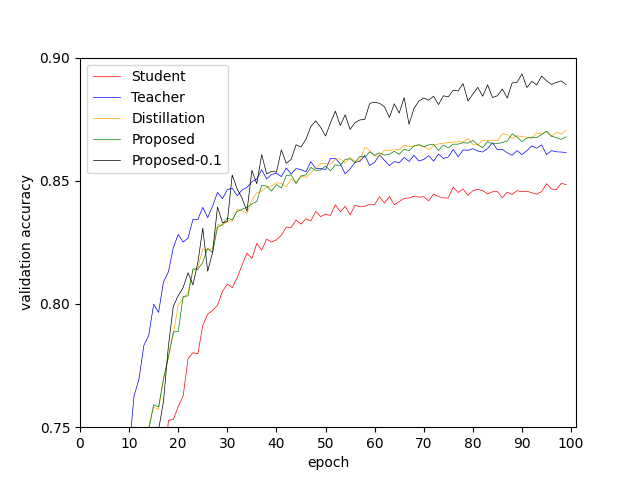
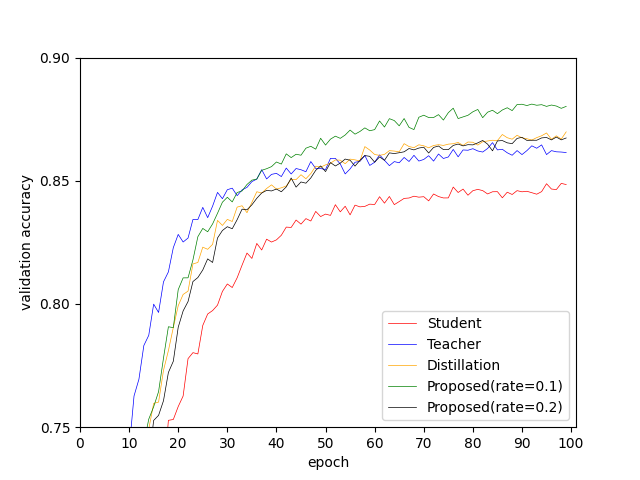
cam-distillation

diff --git a/resnet_test.py b/resnet_test.py
@@ -17,12 +17,11 @@ from src.kd_loss.cam_loss import CAMLoss
 def main():
     
     teacher_student_loss = 0
-    teacher_testmodel_loss = 0
     teacher_st_loss = 0
-    teacher_sample_loss = 0
-    teacher_proposed_loss = 0
+    teacher_cam01_loss = 0
+    teacher_cam02_loss = 0
     
-    iteration = 1
+    iteration = 5
     
     for i in range(iteration):
         print(i)
@@ -38,77 +37,67 @@ def main():
         
         teacher = resnet_teacher().to(device)
         student = resnet_student().to(device)
-        test_model = resnet_student().to(device)
         st = resnet_student().to(device)
-        # sample = resnet_student().to(device)
-        proposed = resnet_student().to(device)
+        cam01 = resnet_student().to(device)
+        cam02 = resnet_student().to(device)
         
         teacher.load_state_dict(torch.load('./logs/resnet/teacher/' + str(i) + '.pth'))
         student.load_state_dict(torch.load('./logs/resnet/student/' + str(i) + '.pth'))
-        test_model.load_state_dict(torch.load('./logs/resnet/cam/' + str(i) + '.pth'))
         st.load_state_dict(torch.load('./logs/resnet/st/' + str(i) + '.pth'))
-        # sample.load_state_dict(torch.load('./logs/resnet/sample/' + str(i) + '.pth'))
-        proposed.load_state_dict(torch.load('./logs/resnet/cam/10.pth'))
+        cam01.load_state_dict(torch.load('./logs/resnet/cam/01_' + str(i) + '.pth'))
+        cam02.load_state_dict(torch.load('./logs/resnet/cam/02_' + str(i) + '.pth'))
         
         loss_fn = nn.CrossEntropyLoss()
         cam_loss = nn.MSELoss()
         
         teacher.eval()
         student.eval()
-        test_model.eval()
         st.eval()
-        # sample.eval()
-        proposed.eval()
-        
+        cam01.eval()
+        cam02.eval()
+       
         with torch.no_grad():           
             for images, labels in tqdm(dataloader, leave=False):
                 images, labels = images.to(device), labels.to(device)
                 _, teacher_cams = teacher(images)
                 _, student_cams = student(images)
-                _, testmodel_cams = test_model(images)
                 _, st_cams = st(images)
-                # _, sample_cams = sample(images)
-                _, proposed_cams = proposed(images)
+                _, cam01_cams = cam01(images)
+                _, cam02_cams = cam02(images)
                 
                 for j in range(batch_size):
                     image = images[j]
                     label = int(labels[j])
                     teacher_feature = teacher_cams[i].to(device)
                     student_feature = student_cams[i].to(device)
-                    testmodel_feature = testmodel_cams[i].to(device)
                     st_feature = st_cams[i].to(device)
-                    # sample_feature = sample_cams[i].to(device)
-                    proposed_feature = proposed_cams[i].to(device)
+                    cam01_feature = cam01_cams[i].to(device)
+                    cam02_feature = cam02_cams[i].to(device)
                     
                     teacher_cam = create_teacher_cam(image, label, teacher_feature, teacher)
                     student_cam = create_student_cam(image, label, student_feature, student)
-                    testmodel_cam = create_student_cam(image, label, testmodel_feature, test_model)
                     st_cam = create_student_cam(image, label, st_feature, st)
-                    # sample_cam = create_student_cam(image, label, st_feature, sample)
-                    proposed_cam = create_student_cam(image, label, proposed_feature, proposed)
+                    cam01_cam = create_student_cam(image, label, cam01_feature, cam01)
+                    cam02_cam = create_student_cam(image, label, cam02_feature, cam02)
                     
                     # 1. 教師と生徒のLoss
                     teacher_student_loss += cam_loss(teacher_cam, student_cam)
-                    # 2. 教師とテストモデルのLoss
-                    teacher_testmodel_loss += cam_loss(teacher_cam, testmodel_cam)
-                    # 3. 教師と従来法のLoss
-                    teacher_st_loss += cam_loss(teacher_cam, st_cam)
-                    # 4. 教師とサンプルモデルのLoss
-                    # teacher_sample_loss += cam_loss(teacher_cam, sample_cam)
-                    # 5. 教師と提案法0.1のLoss
-                    teacher_proposed_loss += cam_loss(teacher_cam, proposed_cam)
+                    # 2. 教師と従来法のLoss
+                    teacher_st_loss      += cam_loss(teacher_cam, st_cam)
+                    # 3. 教師と提案法(cam_rate=0.1)のLoss
+                    teacher_cam01_loss   += cam_loss(teacher_cam, cam01_cam)
+                    # 4. 教師と提案法(cam_rate=0.2)のLoss
+                    teacher_cam02_loss   += cam_loss(teacher_cam, cam02_cam)
             
     teacher_student_loss /= iteration
     teacher_st_loss /= iteration
-    teacher_testmodel_loss /= iteration
-    # teacher_sample_loss /= iteration
-    teacher_proposed_loss /= iteration
+    teacher_cam01_loss /= iteration
+    teacher_cam02_loss /= iteration
     
-    print('Teacher & Student: '         + str(teacher_student_loss.numpy()))
-    print('Teacher & Distillation '     + str(teacher_st_loss.numpy()))
-    print('Teacher & Proposed: '        + str(teacher_testmodel_loss.numpy()))
-    # print('Teacher & only CAMLoss: '    + str(teacher_sample_loss.numpy()))
-    print('Teacher & Proposed-0.1: '    + str(teacher_proposed_loss.numpy()))
+    print('Teacher & Student: '          + str(teacher_student_loss.numpy()))
+    print('Teacher & Distillation '      + str(teacher_st_loss.numpy()))
+    print('Teacher & Proposed(rate=0.1)' + str(teacher_cam01_loss.numpy()))
+    print('Teacher & Proposed(rate=0.2)' + str(teacher_cam02_loss.numpy()))
 
 def create_teacher_cam(image, label, feature, model):
     weight = model.fc.weight[label]
@@ -116,8 +105,8 @@ def create_teacher_cam(image, label, feature, model):
     cam = feature * weight  
     cam = cam.detach().cpu().numpy()
     cam = np.sum(cam, axis=0)
-    # cam = cv2.resize(cam, (32, 32))
-    # cam = (cam - np.min(cam)) / (np.max(cam) - np.min(cam))
+    cam = cv2.resize(cam, (32, 32))
+    cam = (cam - np.min(cam)) / (np.max(cam) - np.min(cam))
     cam = torch.tensor(cam)
     return cam
 
@@ -127,8 +116,8 @@ def create_student_cam(image, label, feature, model):
     cam = feature * weight  
     cam = cam.detach().cpu().numpy()
     cam = np.sum(cam, axis=0)
-    # cam = cv2.resize(cam, (32, 32))
-    # cam = (cam - np.min(cam)) / (np.max(cam) - np.min(cam))
+    cam = cv2.resize(cam, (32, 32))
+    cam = (cam - np.min(cam)) / (np.max(cam) - np.min(cam))
     cam = torch.tensor(cam)
     return cam
 

diff --git a/resnet_result.py b/resnet_result.py
@@ -7,51 +7,33 @@ def main():
     student_path = './history/resnet/student/'
     teacher_path = './history/resnet/teacher/'
     st_path = './history/resnet/st/'
-    cam_path = './history/resnet/cam/'
-    sample_path = './history/resnet/sample/'
-    cnn_path = './history/resnet/cnn/'
-    dis_path = './history/resnet/distillation/'
+    cam01_path = './history/resnet/cam/01_'
+    cam02_path = './history/resnet/cam/02_'
     
     # loading history
     student_acc = load_hist(student_path, 5)
     teacher_acc = load_hist(teacher_path, 5)
     st_acc = load_hist(st_path, 5)
-    cam_acc = load_hist(cam_path, 5)
-    sample_acc = load_hist(sample_path, 5)
-    cnn_acc = load_hist(cnn_path, 5)
-    dis_acc = load_hist(dis_path, 5)
-    
-    cam1_acc = load_history('./history/resnet/cam/10.pickle')
+    cam01_acc = load_hist(cam01_path, 5)
+    cam02_acc = load_hist(cam02_path, 5)
     
     # print test accuracy
     student_avg = load_avg_test(student_path, 5)
-    student_best = load_best_test(student_path, 5)
-    
+    student_best = load_best_test(student_path, 5)   
     teacher_avg = load_avg_test(teacher_path, 5)
-    teacher_best = load_best_test(teacher_path, 5)
-    
+    teacher_best = load_best_test(teacher_path, 5)    
     st_avg = load_avg_test(st_path, 5)
-    st_best = load_best_test(st_path, 5)
-    
-    cam_avg = load_avg_test(cam_path, 5)
-    cam_best = load_best_test(cam_path, 5)
-    
-    sample_avg = load_avg_test(sample_path, 5)
-    sample_best = load_best_test(sample_path, 5)
-    
-    cnn_avg = load_avg_test(cnn_path, 5)
-    cnn_best = load_best_test(cnn_path, 5)
-    
-    dis_avg = load_avg_test(dis_path, 5)
-    dis_best = load_best_test(dis_path, 5)
-    
-    print('Student          | avg: ' + str(student_avg) + ' best: ' + str(student_best))
-    print('Teacher          | avg: ' + str(teacher_avg) + ' best: ' + str(teacher_best))
-    print('Distillation     | avg: ' + str(st_avg)      + ' best: ' + str(st_best))
-    print('CAM-Distillation | avg: ' + str(cam_avg)     + ' best: ' + str(cam_best))
-    print('hard+CAMloss     | avg: ' + str(sample_avg)  + ' best: ' + str(sample_best))
-    print('CNN              | avg: ' + str(cnn_avg)     + ' best: ' + str(cnn_best))
-    print('CNN-distillation | avg: ' + str(dis_avg)     + ' best: ' + str(dis_best))
+    st_best = load_best_test(st_path, 5)    
+    cam01_avg = load_avg_test(cam01_path, 5)
+    cam01_best = load_best_test(cam01_path, 5)   
+    cam02_avg = load_avg_test(cam02_path, 5)
+    cam02_best = load_best_test(cam02_path, 5)
+      
+    print('| Student             | avg: ' + str(student_avg) + ' | best: ' + str(student_best))
+    print('| Teacher             | avg: ' + str(teacher_avg) + ' | best: ' + str(teacher_best))
+    print('| Distillation        | avg: ' + str(st_avg)      + ' | best: ' + str(st_best))
+    print('| Proposed(rate=0.1)  | avg: ' + str(cam01_avg)   + ' | best: ' + str(cam01_best))
+    print('| Proposed(rate=0.2)  | avg: ' + str(cam02_avg)   + ' | best: ' + str(cam02_best))
     
     # plot result
     x = np.arange(100)
@@ -60,15 +42,11 @@ def main():
     plt.xlabel('epoch')
     plt.ylabel('validation accuracy')
     
-    plt.plot(x, student_acc, label='Student', linewidth=0.5, color='red')
-    plt.plot(x, teacher_acc, label='Teacher', linewidth=0.5, color='blue')
-    plt.plot(x, st_acc, label='Distillation', linewidth=0.5, color='orange')
-    plt.plot(x, cam_acc, label='Proposed', linewidth=0.5, color='green')
-    # plt.plot(x, sample_acc, label='hard+CAMloss', linewidth=0.5, color='black')
-    # plt.plot(x, cnn_acc, label='normal CNN', linewidth=0.5, color='black')
-    # plt.plot(x, dis_acc, label='CNN-distillation', linewidth=0.5, color='yellow')
-    plt.plot(x, cam1_acc, label='Proposed-0.1', linewidth=0.5, color='black')
-    
+    plt.plot(x, student_acc, label='Student',            linewidth=0.5, color='red')
+    plt.plot(x, teacher_acc, label='Teacher',            linewidth=0.5, color='blue')
+    plt.plot(x, st_acc,      label='Distillation',       linewidth=0.5, color='orange')
+    plt.plot(x, cam01_acc,   label='Proposed(rate=0.1)', linewidth=0.5, color='green')
+    plt.plot(x, cam02_acc,   label='Proposed(rate=0.2)', linewidth=0.5, color='black')
     
     plt.xticks(np.arange(0, 110, 10))
     plt.yticks(np.arange(0.55, 0.95, 0.05))
@@ -77,14 +55,6 @@ def main():
     
     plt.legend()
     plt.savefig('./result/resnet_result.png')
-
-def load_history(path):
-    dic = {}
-    with open(path, mode='rb') as f:
-        dic = pickle.load(f)
-    val_acc = np.zeros(len(dic['val_accuracy']))
-    val_acc += np.array(dic['val_accuracy'])
-    return val_acc
 
 def load_hist(path, iteration):
     dic = {}

diff --git a/resnet_train_cam.py b/resnet_train_cam.py
@@ -13,10 +13,10 @@ from sklearn.metrics import accuracy_score
 from src.kd_loss.st import SoftTargetLoss
 from src.kd_loss.cam_loss import CAMLoss
 import pickle
-# from torchvision.models.feature_extraction import create_feature_extractor
 
 def main():
-    for i in range(20, 21):
+    for i in range(5):
+        cam_rate = '03'
         epochs = 100
         batch_size = 128
         np.random.seed(i)
@@ -39,7 +39,7 @@ def main():
         teacher = resnet_teacher().to(device)
         student = resnet_student().to(device)
         
-        teacher.load_state_dict(torch.load('./logs/resnet/teacher/' + str(0) + '.pth')) # 変更
+        teacher.load_state_dict(torch.load('./logs/resnet/teacher/' + str(i) + '.pth')) # 変更
         loss_fn = nn.CrossEntropyLoss() 
         student_hist = {'loss': [], 'accuracy': [], 'val_loss': [], 'val_accuracy': []}
         
@@ -77,9 +77,13 @@ def main():
         
                 student_cam = create_student_cam(student, images, labels, student_features, batch_size, device)
                 teacher_cam = create_teacher_cam(teacher, images, labels, teacher_features, batch_size, device)
-
-                loss = 0.5*loss_fn(preds, labels) + 0.3*T*T*soft_loss(preds, targets) + 0.2*cam_loss(student_cam, teacher_cam) # 1
-                # loss = loss_fn(preds, labels) + cam_loss(student_cam, teacher_cam) # 2
+                
+                if cam_rate == '01':
+                    loss = 0.5*loss_fn(preds, labels) + 0.4*T*T*soft_loss(preds, targets) + 0.1*cam_loss(student_cam, teacher_cam)
+                elif cam_rate == '02':
+                    loss = 0.5*loss_fn(preds, labels) + 0.3*T*T*soft_loss(preds, targets) + 0.2*cam_loss(student_cam, teacher_cam)
+                elif cam_rate == '03':
+                    loss = 0.5*loss_fn(preds, labels) + 0.2*T*T*soft_loss(preds, targets) + 0.3*cam_loss(student_cam, teacher_cam)
                 
                 optim.zero_grad()
                 loss.backward()
@@ -105,7 +109,7 @@ def main():
             if score <= val_acc:
                 print('save param')
                 score = val_acc
-                torch.save(student.state_dict(), './logs/resnet/cam/' + str(i) + '.pth') # 変更箇所
+                torch.save(student.state_dict(), './logs/resnet/cam/' + str(cam_rate) + '_' + str(i) + '.pth') # 変更箇所
             
             student_hist['loss'].append(train_loss)
             student_hist['accuracy'].append(train_acc)
@@ -114,10 +118,10 @@ def main():
 
             print(f'epoch: {epoch+1}, loss: {train_loss:.3f}, accuracy: {train_acc:.3f}, val_loss: {val_loss:.3f}, val_accuracy: {val_acc:.3f}')
             
-            with open('./history/resnet/cam/' + str(i) + '.pickle', mode='wb') as f: # 変更箇所
+            with open('./history/resnet/cam/' + str(cam_rate) + '_' + str(i) + '.pickle', mode='wb') as f: # 変更箇所
                 pickle.dump(student_hist, f)
         
-        student.load_state_dict(torch.load('./logs/resnet/cam/' + str(i) + '.pth')) # 変更箇所
+        student.load_state_dict(torch.load('./logs/resnet/cam/' + str(cam_rate) + '_' + str(i) + '.pth')) # 変更箇所
         test = {'acc': [], 'loss': []}
         # distillation student test
         student.eval()
@@ -135,7 +139,7 @@ def main():
         print(f'test_loss: {test_loss:.3f}, test_accuracy: {test_acc:.3f}')
         test['acc'].append(test_acc)
         test['loss'].append(test_loss)
-        with open('./history/resnet/cam/test' + str(i) + '.pickle', mode='wb') as f: # 変更箇所
+        with open('./history/resnet/cam/' + str(cam_rate) + '_test' + str(i) + '.pickle', mode='wb') as f: # 変更箇所
             pickle.dump(test, f)
 
 def create_student_cam(model, images, labels, features, batch_size, device):
